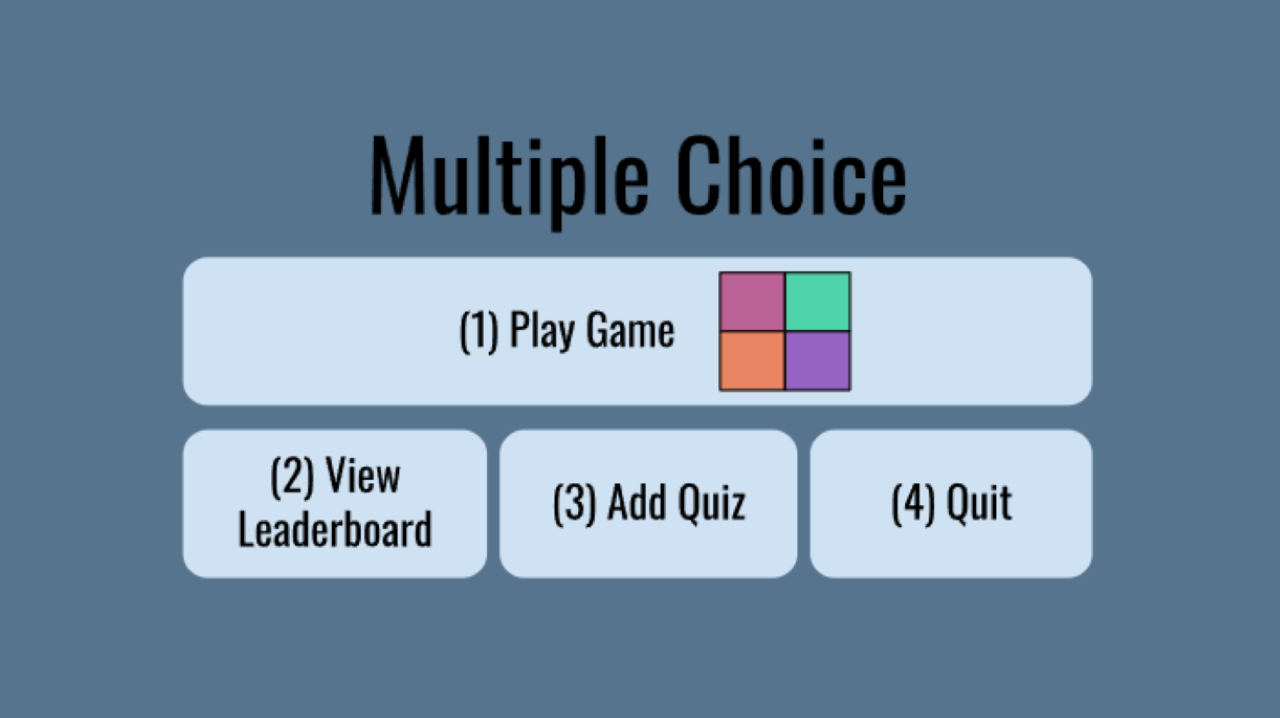
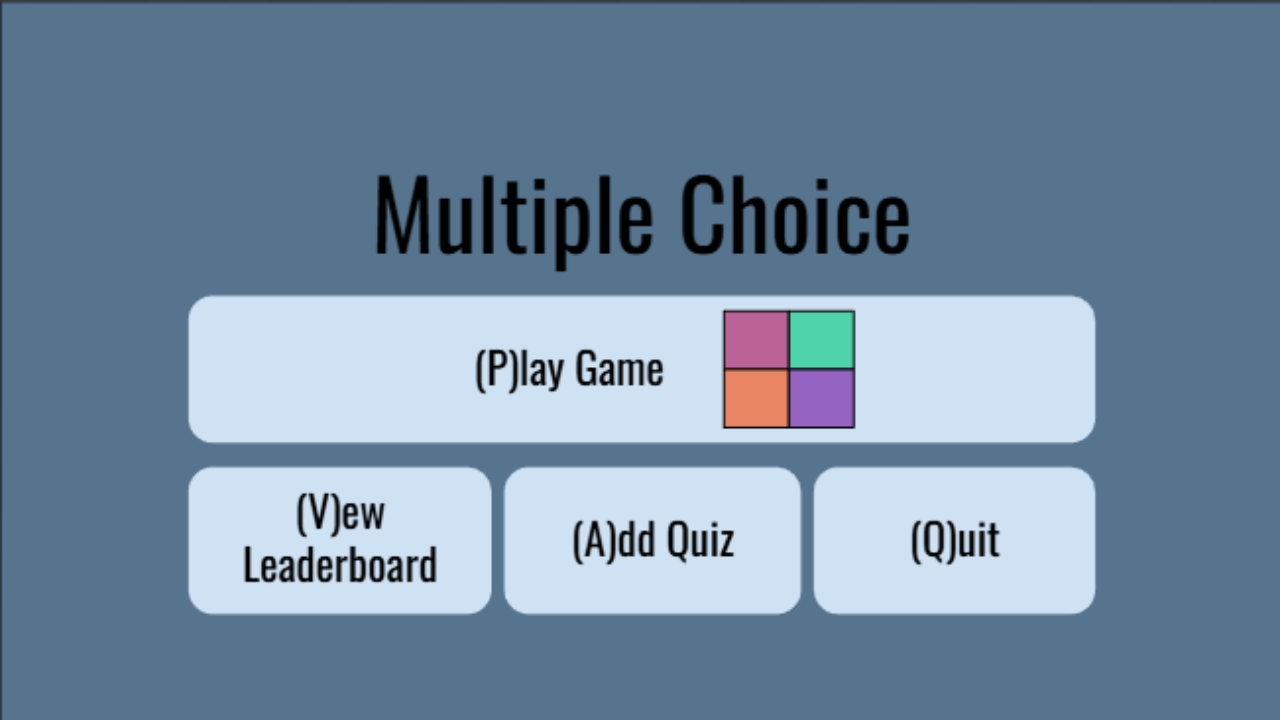
Change the inputs of the main menu to letters instead of numbers

Changed region(s): [[0.125, 0.1838, 0.875, 0.8579], [0.0, 0.0, 1.0, 0.0306]]

diff --git a/CPTElla.java b/CPTElla.java
@@ -6,16 +6,16 @@ import java.awt.Font;
 public class CPTElla{
 	public static void main(String[] args){
 		Console con = new Console("Multiple Choice", 1280, 720);
-		int intChoice = 0;
+		String strChoice = "M";
 		String strName;
 		
 		//Don't quit the game until the users chooses to
-		while(intChoice != 4){
+		while(!strChoice.equalsIgnoreCase("Q")){
 			//Display the main menu as soon as the game starts
-			if (intChoice == 0){
+			if (strChoice.equalsIgnoreCase("M")){
 				con.clear();
-				intChoice = MainMenu(intChoice, con);
-				System.out.println(intChoice);
+				strChoice = MainMenu(strChoice, con);
+				System.out.println(strChoice);
 				
 				//Clear the screen
 				con.clear();
@@ -24,7 +24,7 @@ public class CPTElla{
 					
 				
 			//Set up the game if the player chooses "play"
-			}else if(intChoice == 1){
+			}else if(strChoice.equalsIgnoreCase("P")){
 				//Create the variables needed later in the code
 				String strPlayerName;
 				String strQuiz;
@@ -48,8 +48,6 @@ public class CPTElla{
 				con.println("Which quiz do you want to choose? Please type the full name including the .txt");
 				strQuiz = con.readLine();
 				
-				//Instructions
-				con.println("You will be shown a question and four possible answers, please type which one you think is correct into the answer box.");
 				dblScore = PlayGame(strQuiz, strPlayerName, con);
 				
 				//Give bonus for thsoe who chose their name as statitan
@@ -67,33 +65,33 @@ public class CPTElla{
 				Leaderboard.close();
 				
 				//return to main menu
-				intChoice = 0;
+				strChoice = "M";
 			
 			//Set up the leaderboard viewing	
-			}else if(intChoice == 2){
+			}else if(strChoice.equalsIgnoreCase("V")){
 				
 				//Load into method
 				Leader(con);
 				
 				//Ask if they want to return to the main menu
-				con.println("if you wish to return to the main menu, press 0");
-				intChoice = con.readInt();
+				con.println("if you wish to return to the main menu, press M");
+				strChoice = con.readLine();
 				
 			//Set the add quiz option
-			}else if(intChoice == 3){
+			}else if(strChoice.equalsIgnoreCase("A")){
 				
 				System.out.print("Quiz added");
 				//Load the method for quiz creation
 				CreateQuiz(con);
 				
-				intChoice = 0;
+				strChoice = "M";
 			
 			//Secret menu	
-			}else if(intChoice == 5){
+			}else if(strChoice.equalsIgnoreCase("S")){
 				con.println("Why did the robber jump in the shower?");
 				con.println("They wanted to make a clean getaway");
 				con.sleep(1200);
-				intChoice = 0;
+				strChoice = "M";
 			}
 			
 		}
@@ -102,7 +100,7 @@ public class CPTElla{
 			
 	}
 	
-	public static int MainMenu(int intOption, Console con){
+	public static String MainMenu(String strOption, Console con){
 		//Load in appearence of the main menu
 		BufferedImage imgMain = con.loadImage("MainScreen.png");
 		
@@ -111,10 +109,10 @@ public class CPTElla{
 		
 		//Get the user to choose one of the options	
 		con.println("");
-		intOption = con.readInt();
+		strOption = con.readLine();
 		
 
-		return intOption;
+		return strOption;
 
 		
 	}
@@ -196,6 +194,8 @@ public class CPTElla{
 		double dblScore = 0;
 		String strAnswer;
 		
+		//Instructions
+		con.println("You will be shown a question and four possible answers, please type which one you think is correct into the answer box.");
 		for(intCount = 0; intCount < intQnum; intCount++){
 			//Display, user interface
 			con.clear();
@@ -241,7 +241,7 @@ public class CPTElla{
 			dblScore = Math.round((dblCorrect/dblAsked)*100);
 			System.out.println(dblScore);
 			
-			con.sleep(600);
+			con.sleep(800);
 								
 		}
 		
@@ -361,6 +361,8 @@ public class CPTElla{
 			strContinue = con.readLine();
 			
 		}
+		//Close file
+		QuizCreation.close();
 			
 		
 		
